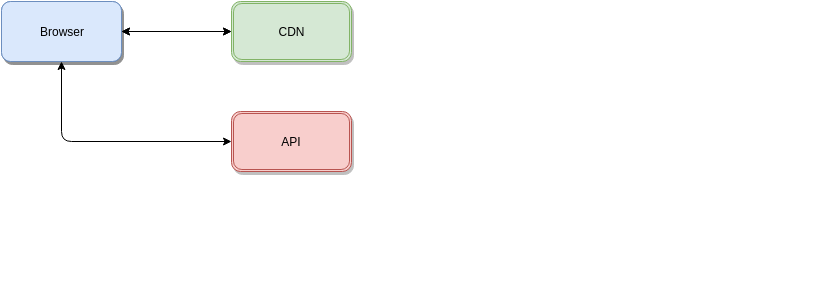
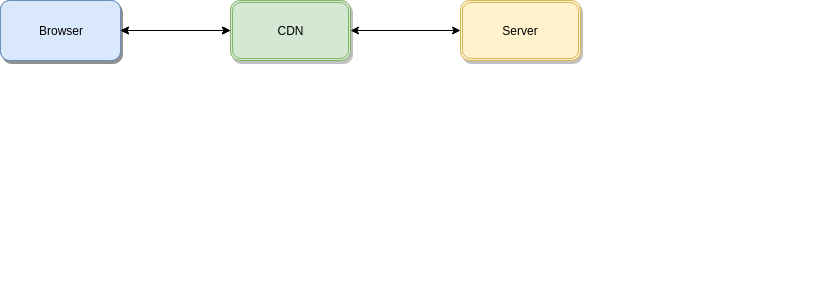
new stack updates

diff --git a/index.html b/index.html
@@ -184,7 +184,7 @@
               <li>interacts with one or more data sources and web services</li>
               <li>LAMP: Linux, Apache, MySQL, {PHP, Perl, Python}</li>
               <li>MEAN: MongoDB, Express, Angular, NodeJS</li>
-              <li>Amazon, EBay, apple, YouTube, WordPress, MovableType, Drupal, Joomla, etc</li>
+              <li>Amazon, EBay, Facebook, YouTube, WordPress, MovableType, Drupal, Joomla, etc</li>
               <li>many servers</li>
             </ul>
           </div>
@@ -383,48 +383,69 @@
         </figure>
       </div>
     </section>
+    <section class="bg-blue aligncenter">
+      <span class="background dark" style="background-image: url('static/images/unsplash/yb0Qs65aZmc.jpg')"></span>
+      <div class="wrap aligncenter">
+        <h2>The NEW Stack</h2>
+        <hr>
+        <figure>
+          <img src="static/images/new-flow-03.png">
+        </figure>
+      </div>
+    </section>
+    <section class="bg-blue aligncenter">
+      <span class="background dark" style="background-image: url('static/images/unsplash/yb0Qs65aZmc.jpg')"></span>
+      <div class="wrap aligncenter">
+        <h2>The NEW Stack</h2>
+        <hr>
+        <figure>
+          <img src="static/images/new-flow-04.png">
+        </figure>
+      </div>
+    </section>
     <section class="bg-blue">
       <span class="background dark" style="background-image: url('static/images/unsplash/yb0Qs65aZmc.jpg')"></span>
       <div class="wrap">
-        <h2>The JAM Stack</h2>
-        <hr>
-        <div class="grid sm">
-          <div class="column">
-            <h3>JavaScript, APIs, Markup.</h3>
-          </div>
-          <div class="column">
-            <strong>What is it?</strong>
-            <ul>
+        <div class="column">
+          <h2 class="aligncenter">The NEW Stack</h2>
+          <hr>
+          <div class="grid">
+            <div class="column">
+              <h4>Developers</h4>
+              <ul>
               <li><span class="fa fa-check"></span> Decouple front end development from backend development</li>
               <li><span class="fa fa-check"></span> Decouple building websites from hosting websites</li>
               <li><span class="fa fa-check"></span> APIs are leveraged instead of direct accessing of database</li>
               <li><span class="fa fa-check"></span> Pre-baked markup, enhanced with javascript</li>
-            </ul>
+
+                <li><span class="fa fa-check"></span> Stuck with fragile deployment, e.g. FTP</li>
+                <li><span class="fa fa-check"></span> Difficult to scale multiple authors</li>
+                <li><span class="fa fa-check"></span> Complex environments; testing matrix of death</li>
+                <li><span class="fa fa-check"></span> No transactional deployments</li>
+              </ul>
+            </div>
+            <div class="column">
+              <h4>Operations</h4>
+              <ul>
+                <li><span class="fa fa-check"></span> Diverse environments to maintain</li>
+                <li><span class="fa fa-check"></span> Too many caches and pools to tune</li>
+                <li><span class="fa fa-check"></span> ACL nightmare</li>
+                <li><span class="fa fa-check"></span> No transactional deployments</li>
+              </ul>
+            </div>
+            <div class="column">
+              <h4>Users</h4>
+              <ul>
+                <li><span class="fa fa-check"></span> Cold caches</li>
+                <li><span class="fa fa-check"></span> Inconsistent themes for large sites</li>
+                <li><span class="fa fa-check"></span> Poor performance for building simple pages</li>
+                <li><span class="fa fa-check"></span> Server-side rendering is anti-global (no edge CDN)</li>
+              </ul>
+            </div>
           </div>
         </div>
       </div>
     </section>
-    <section>
-      <div class="wrap">
-        <h2>The JAM Stack</h2>
-        <hr>
-        <div class="grid sm">
-          <div class="column">
-            <h3>JavaScript, APIs, Markup.</h3>
-          </div>
-          <div class="column">
-            <h3>What are some best practices?</h3>
-            <ul>
-              <li><span class="fa fa-check"></span> Decouple front end development from backend development</li>
-              <li><span class="fa fa-check"></span> Decouple building websites from hosting websites</li>
-              <li><span class="fa fa-check"></span> APIs are leveraged instead of direct accessing of database</li>
-              <li><span class="fa fa-check"></span> Pre-baked markup, enhanced with javascript</li>
-            </ul>
-          </div>
-        </div>
-      </div>
-    </section>
-    <section>
       <div class="wrap">
         <h2>The API Economy</h2>
         <p>APIs rule the world.</p>
